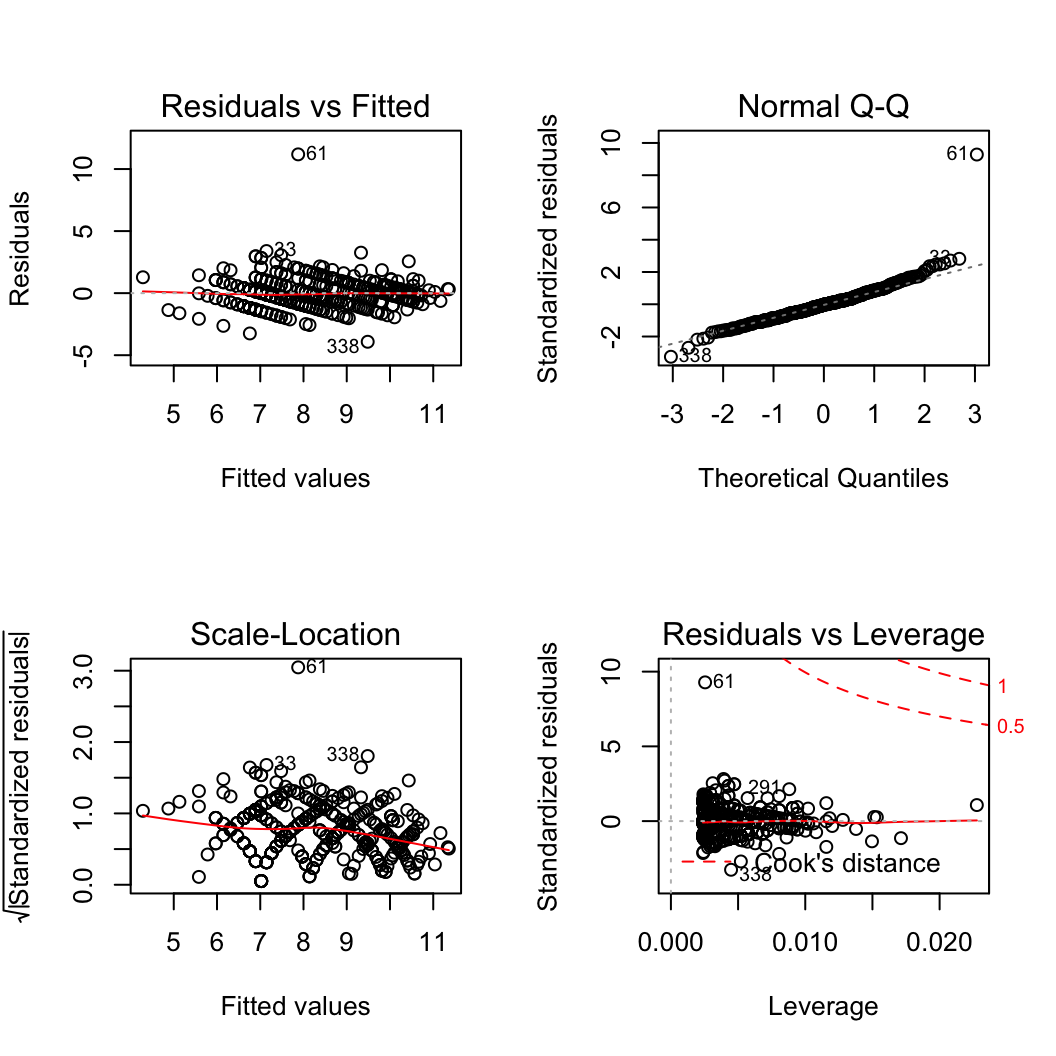
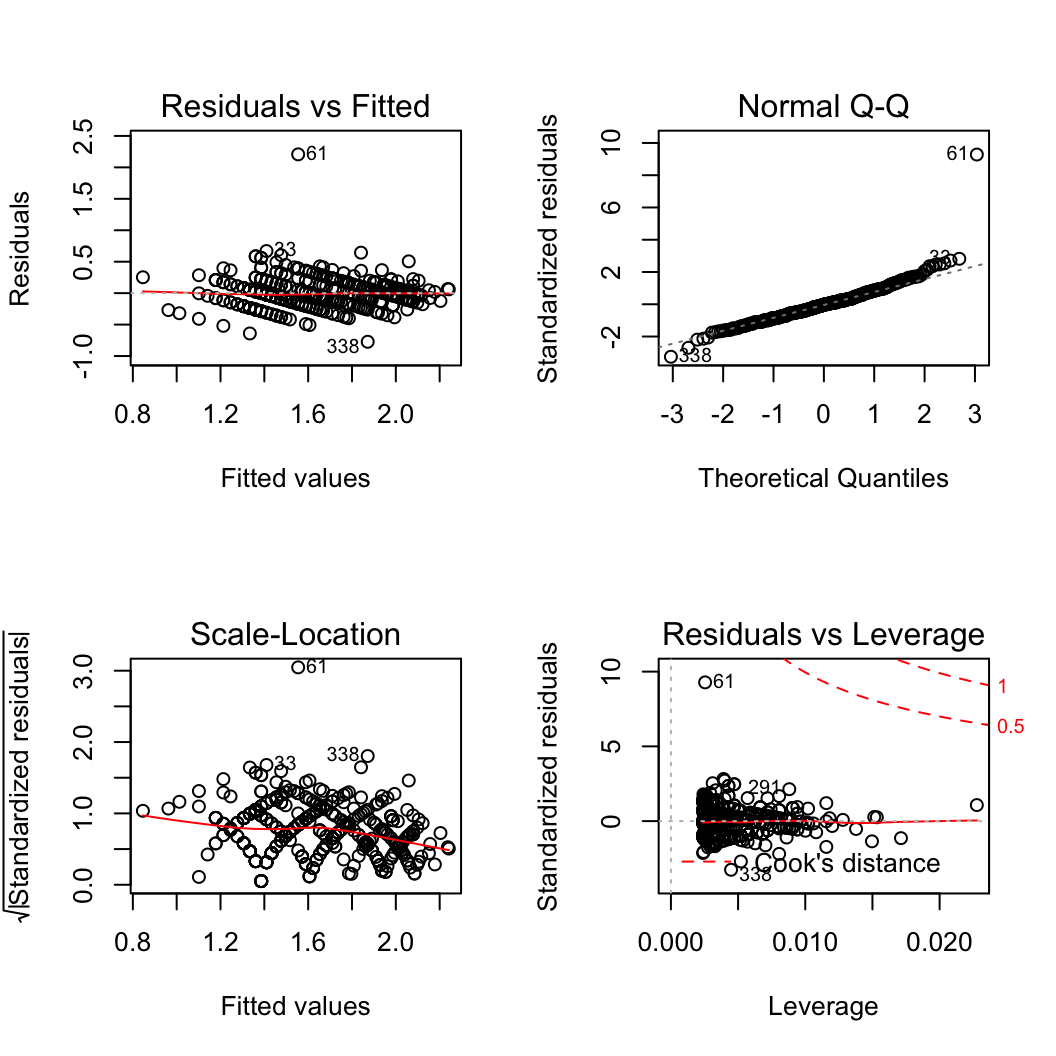
regenerated output

diff --git a/docs/articles/allometree.html b/docs/articles/allometree.html
@@ -180,24 +180,24 @@
 <p> </p>
 <p>An overview of the best-fit models across the 5 species:</p>
 <div class="sourceCode" id="cb4"><html><body><pre class="r"><span class="no">results</span>$<span class="no">sp_models_info</span>
-<span class="co">#&gt;                    species modelcode         a          b          c        d</span>
-<span class="co">#&gt; 1            Albizia saman    lin_w1  6.717431   9.464096         NA       NA</span>
-<span class="co">#&gt; 2            Hopea odorata  quart_w4 -1.149669 149.317848 -1522.6122 7908.410</span>
-<span class="co">#&gt; 3     Syzygium myrtifolium  quart_w2 -4.614100 158.512849  -748.2492 1638.676</span>
-<span class="co">#&gt; 4       Terminalia mantaly   expo_w1  9.460831  29.320921         NA       NA</span>
-<span class="co">#&gt; 5 Xanthostemon chrysanthus loglog_w1 14.954606   2.982932         NA       NA</span>
+<span class="co">#&gt;                    species modelcode         a           b          c        d</span>
+<span class="co">#&gt; 1            Albizia saman    lin_w1  6.717431   9.4640964         NA       NA</span>
+<span class="co">#&gt; 2            Hopea odorata  quart_w4 -1.149669 149.3178483 -1522.6122 7908.410</span>
+<span class="co">#&gt; 3     Syzygium myrtifolium  quart_w2 -4.614100 158.5128488  -748.2492 1638.676</span>
+<span class="co">#&gt; 4       Terminalia mantaly   expo_w1  1.241983   3.8600410         NA       NA</span>
+<span class="co">#&gt; 5 Xanthostemon chrysanthus loglog_w1  2.946637   0.5886442         NA       NA</span>
 <span class="co">#&gt;            e response_geom_mean correctn_factor predictor_min predictor_max</span>
 <span class="co">#&gt; 1         NA          13.566083        1.000000    0.31194369     1.5278875</span>
 <span class="co">#&gt; 2 -14225.442           5.390829        1.000000    0.03183099     0.2928451</span>
 <span class="co">#&gt; 3  -1321.221           7.735643        1.000000    0.04138029     0.5665916</span>
-<span class="co">#&gt; 4         NA           7.596013        1.031243    0.03501409     0.5602254</span>
-<span class="co">#&gt; 5         NA           5.067462        1.028603    0.02864789     0.3533240</span>
+<span class="co">#&gt; 4         NA           7.596013        1.000533    0.03501409     0.5602254</span>
+<span class="co">#&gt; 5         NA           5.067462        1.001099    0.02864789     0.3533240</span>
 <span class="co">#&gt;   response_min response_max residual_SE mean_SE adj_R2   n</span>
 <span class="co">#&gt; 1            8           20      2.2050  4.7889 0.4276 133</span>
 <span class="co">#&gt; 2            2           15     11.9430  2.6339 0.5460 483</span>
 <span class="co">#&gt; 3            1           18      2.1674  2.2536 0.6662 353</span>
-<span class="co">#&gt; 4            3           18      1.8938  3.5502 0.6702 197</span>
-<span class="co">#&gt; 5            2           43      1.2064  1.4484 0.5551 419</span></pre></body></html></div>
+<span class="co">#&gt; 4            3           18      0.2493  0.0615 0.6702 197</span>
+<span class="co">#&gt; 5            2           43      0.2381  0.0564 0.5551 419</span></pre></body></html></div>
 <p> </p>
 <p>We can simulate data across a range of diameter sizes for each species, and use their respective models to make predictions of tree height. The simulated data can also be extrapolated beyond the range used to fit the model, using the argument <code>extrapolate</code>:</p>
 <div class="sourceCode" id="cb5"><html><body><pre class="r"><span class="no">predictions</span> <span class="kw">&lt;-</span> <span class="fu">sp_simulate</span>(<span class="kw">ref_table</span> <span class="kw">=</span> <span class="no">results</span>$<span class="no">sp_models_info</span>, <span class="kw">models</span> <span class="kw">=</span> <span class="no">results</span>$<span class="no">sp_models</span>,

diff --git a/docs/articles/single-species_models.html b/docs/articles/single-species_models.html
@@ -170,24 +170,24 @@
 <p> </p>
 <p>An overview of the best-fit models across the 5 species:</p>
 <div class="sourceCode" id="cb6"><html><body><pre class="r"><span class="no">results_all</span>$<span class="no">sp_models_info</span>
-<span class="co">#&gt;                    species modelcode         a          b          c        d</span>
-<span class="co">#&gt; 1            Albizia saman    lin_w1  6.717431   9.464096         NA       NA</span>
-<span class="co">#&gt; 2            Hopea odorata  quart_w4 -1.149669 149.317848 -1522.6122 7908.410</span>
-<span class="co">#&gt; 3     Syzygium myrtifolium  quart_w2 -4.614100 158.512849  -748.2492 1638.676</span>
-<span class="co">#&gt; 4       Terminalia mantaly   expo_w1  9.460831  29.320921         NA       NA</span>
-<span class="co">#&gt; 5 Xanthostemon chrysanthus loglog_w1 14.954606   2.982932         NA       NA</span>
+<span class="co">#&gt;                    species modelcode         a           b          c        d</span>
+<span class="co">#&gt; 1            Albizia saman    lin_w1  6.717431   9.4640964         NA       NA</span>
+<span class="co">#&gt; 2            Hopea odorata  quart_w4 -1.149669 149.3178483 -1522.6122 7908.410</span>
+<span class="co">#&gt; 3     Syzygium myrtifolium  quart_w2 -4.614100 158.5128488  -748.2492 1638.676</span>
+<span class="co">#&gt; 4       Terminalia mantaly   expo_w1  1.241983   3.8600410         NA       NA</span>
+<span class="co">#&gt; 5 Xanthostemon chrysanthus loglog_w1  2.946637   0.5886442         NA       NA</span>
 <span class="co">#&gt;            e response_geom_mean correctn_factor predictor_min predictor_max</span>
 <span class="co">#&gt; 1         NA          13.566083        1.000000    0.31194369     1.5278875</span>
 <span class="co">#&gt; 2 -14225.442           5.390829        1.000000    0.03183099     0.2928451</span>
 <span class="co">#&gt; 3  -1321.221           7.735643        1.000000    0.04138029     0.5665916</span>
-<span class="co">#&gt; 4         NA           7.596013        1.031243    0.03501409     0.5602254</span>
-<span class="co">#&gt; 5         NA           5.067462        1.028603    0.02864789     0.3533240</span>
+<span class="co">#&gt; 4         NA           7.596013        1.000533    0.03501409     0.5602254</span>
+<span class="co">#&gt; 5         NA           5.067462        1.001099    0.02864789     0.3533240</span>
 <span class="co">#&gt;   response_min response_max residual_SE mean_SE adj_R2   n</span>
 <span class="co">#&gt; 1            8           20      2.2050  4.7889 0.4276 133</span>
 <span class="co">#&gt; 2            2           15     11.9430  2.6339 0.5460 483</span>
 <span class="co">#&gt; 3            1           18      2.1674  2.2536 0.6662 353</span>
-<span class="co">#&gt; 4            3           18      1.8938  3.5502 0.6702 197</span>
-<span class="co">#&gt; 5            2           43      1.2064  1.4484 0.5551 419</span></pre></body></html></div>
+<span class="co">#&gt; 4            3           18      0.2493  0.0615 0.6702 197</span>
+<span class="co">#&gt; 5            2           43      0.2381  0.0564 0.5551 419</span></pre></body></html></div>
 </div>
 </div>
 <div id="outlier-removal" class="section level2">

diff --git a/docs/reference/sp_modelselect_multi.html b/docs/reference/sp_modelselect_multi.html
@@ -251,24 +251,24 @@ trees used to fit model).</p></dd>
 #&gt; (Intercept)            x  
 #&gt;       6.717        9.464  
 #&gt; </div><div class='input'>
-<span class='no'>results</span>$<span class='no'>sp_models_info</span> <span class='co'># summary of best-fit models</span></div><div class='output co'>#&gt;                    species modelcode         a          b          c        d
-#&gt; 1            Albizia saman    lin_w1  6.717431   9.464096         NA       NA
-#&gt; 2            Hopea odorata  quart_w4 -1.149669 149.317848 -1522.6122 7908.410
-#&gt; 3     Syzygium myrtifolium  quart_w2 -4.614100 158.512849  -748.2492 1638.676
-#&gt; 4       Terminalia mantaly   expo_w1  9.460831  29.320921         NA       NA
-#&gt; 5 Xanthostemon chrysanthus loglog_w1 14.954606   2.982932         NA       NA
+<span class='no'>results</span>$<span class='no'>sp_models_info</span> <span class='co'># summary of best-fit models</span></div><div class='output co'>#&gt;                    species modelcode         a           b          c        d
+#&gt; 1            Albizia saman    lin_w1  6.717431   9.4640964         NA       NA
+#&gt; 2            Hopea odorata  quart_w4 -1.149669 149.3178483 -1522.6122 7908.410
+#&gt; 3     Syzygium myrtifolium  quart_w2 -4.614100 158.5128488  -748.2492 1638.676
+#&gt; 4       Terminalia mantaly   expo_w1  1.241983   3.8600410         NA       NA
+#&gt; 5 Xanthostemon chrysanthus loglog_w1  2.946637   0.5886442         NA       NA
 #&gt;            e response_geom_mean correctn_factor predictor_min predictor_max
 #&gt; 1         NA          13.566083        1.000000    0.31194369     1.5278875
 #&gt; 2 -14225.442           5.390829        1.000000    0.03183099     0.2928451
 #&gt; 3  -1321.221           7.735643        1.000000    0.04138029     0.5665916
-#&gt; 4         NA           7.596013        1.031243    0.03501409     0.5602254
-#&gt; 5         NA           5.067462        1.028603    0.02864789     0.3533240
+#&gt; 4         NA           7.596013        1.000533    0.03501409     0.5602254
+#&gt; 5         NA           5.067462        1.001099    0.02864789     0.3533240
 #&gt;   response_min response_max residual_SE mean_SE adj_R2   n
 #&gt; 1            8           20      2.2050  4.7889 0.4276 133
 #&gt; 2            2           15     11.9430  2.6339 0.5460 483
 #&gt; 3            1           18      2.1674  2.2536 0.6662 353
-#&gt; 4            3           18      1.8938  3.5502 0.6702 197
-#&gt; 5            2           43      1.2064  1.4484 0.5551 419</div><div class='input'>
+#&gt; 4            3           18      0.2493  0.0615 0.6702 197
+#&gt; 5            2           43      0.2381  0.0564 0.5551 419</div><div class='input'>
 </div></pre>
   </div>
   <div class="col-md-3 hidden-xs hidden-sm" id="pkgdown-sidebar">

diff --git a/docs/reference/sp_modelfit_multi.html b/docs/reference/sp_modelfit_multi.html
@@ -265,24 +265,24 @@ trees used to fit model).</p></dd>
 #&gt; (Intercept)            x  
 #&gt;       6.717        9.464  
 #&gt; </div><div class='input'>
-<span class='no'>results</span>$<span class='no'>sp_models_info</span> <span class='co'># summary of fitted models</span></div><div class='output co'>#&gt;                    species modelcode         a          b          c        d
-#&gt; 1            Albizia saman    lin_w1  6.717431   9.464096         NA       NA
-#&gt; 2            Hopea odorata  quart_w4 -1.149669 149.317848 -1522.6122 7908.410
-#&gt; 3     Syzygium myrtifolium  quart_w2 -4.614100 158.512849  -748.2492 1638.676
-#&gt; 4       Terminalia mantaly   expo_w1  9.460831  29.320921         NA       NA
-#&gt; 5 Xanthostemon chrysanthus loglog_w1 14.954606   2.982932         NA       NA
+<span class='no'>results</span>$<span class='no'>sp_models_info</span> <span class='co'># summary of fitted models</span></div><div class='output co'>#&gt;                    species modelcode         a           b          c        d
+#&gt; 1            Albizia saman    lin_w1  6.717431   9.4640964         NA       NA
+#&gt; 2            Hopea odorata  quart_w4 -1.149669 149.3178483 -1522.6122 7908.410
+#&gt; 3     Syzygium myrtifolium  quart_w2 -4.614100 158.5128488  -748.2492 1638.676
+#&gt; 4       Terminalia mantaly   expo_w1  1.241983   3.8600410         NA       NA
+#&gt; 5 Xanthostemon chrysanthus loglog_w1  2.946637   0.5886442         NA       NA
 #&gt;            e response_geom_mean correctn_factor predictor_min predictor_max
 #&gt; 1         NA          13.566083        1.000000    0.31194369     1.5278875
 #&gt; 2 -14225.442           5.390829        1.000000    0.03183099     0.2928451
 #&gt; 3  -1321.221           7.735643        1.000000    0.04138029     0.5665916
-#&gt; 4         NA           7.596013        1.031243    0.03501409     0.5602254
-#&gt; 5         NA           5.067462        1.028603    0.02864789     0.3533240
+#&gt; 4         NA           7.596013        1.000533    0.03501409     0.5602254
+#&gt; 5         NA           5.067462        1.001099    0.02864789     0.3533240
 #&gt;   response_min response_max residual_SE mean_SE adj_R2   n
 #&gt; 1            8           20      2.2050  4.7889 0.4276 133
 #&gt; 2            2           15     11.9430  2.6339 0.5460 483
 #&gt; 3            1           18      2.1674  2.2536 0.6662 353
-#&gt; 4            3           18      1.8938  3.5502 0.6702 197
-#&gt; 5            2           43      1.2064  1.4484 0.5551 419</div><div class='input'>
+#&gt; 4            3           18      0.2493  0.0615 0.6702 197
+#&gt; 5            2           43      0.2381  0.0564 0.5551 419</div><div class='input'>
 </div></pre>
   </div>
   <div class="col-md-3 hidden-xs hidden-sm" id="pkgdown-sidebar">
